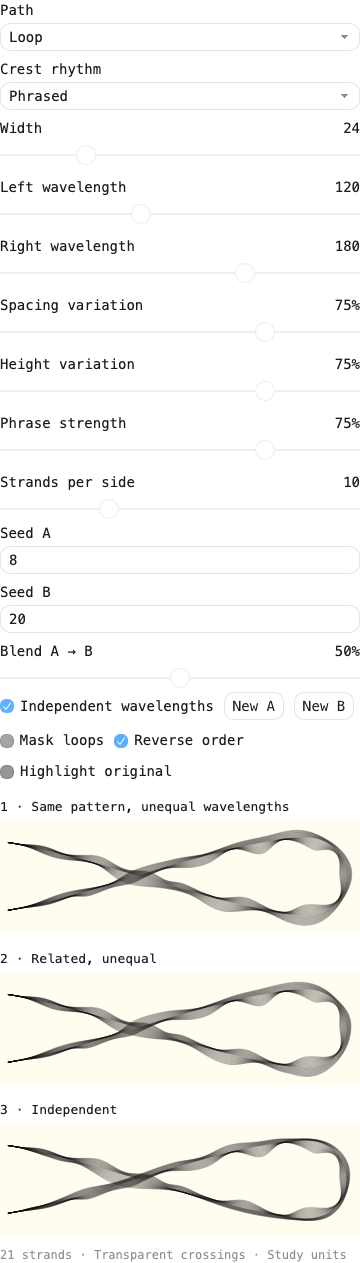
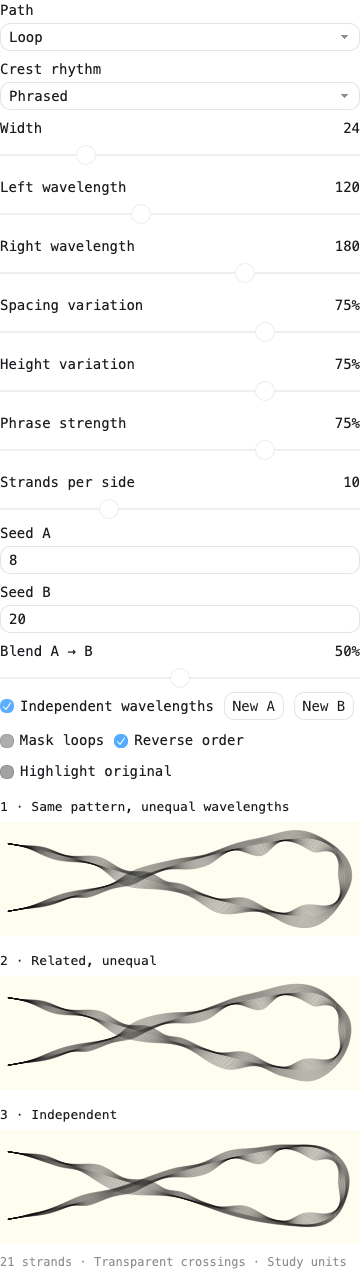
fix: normalize ribbon seed blend amplitude

diff --git a/docs/reviews/open-path-ribbon-2026-09-08/geometry.js b/docs/reviews/open-path-ribbon-2026-09-08/geometry.js
@@ -342,17 +342,31 @@
     const [leftProfile,rightProfile]=aProfiles.map((a,i)=>
       blend>0&&blend<1 ? s=>mix(a(s),bProfiles[i](s),blend) : a);
 
-    function outerWidths(profile) {
-      return spine.map((p, i) => {
+    function outerWidths(profile, sideIndex) {
+      const widths = spine.map((p, i) => {
         if (i === 0 || i === spine.length - 1) return 0;
         const base = profile(sampled.ss[i]);
         const requested = opts.width * base * taperAt(sampled.ss[i], sampled.total, opts.taper);
         return requested;
       });
+      if(blend>0&&blend<1&&opts.seed!==seedB) {
+        let peakA=0,peakB=0,peakMixed=0;
+        for(let i=1;i<spine.length-1;i++) {
+          const s=sampled.ss[i], envelope=opts.width*taperAt(s,sampled.total,opts.taper);
+          peakA=Math.max(peakA,aProfiles[sideIndex](s)*envelope);
+          peakB=Math.max(peakB,bProfiles[sideIndex](s)*envelope);
+          peakMixed=Math.max(peakMixed,widths[i]);
+        }
+        // Misaligned peaks otherwise cancel during a profile crossfade. One
+        // gain per side preserves the local rhythm and strand spacing.
+        const gain=peakMixed>1e-12 ? mix(peakA,peakB,blend)/peakMixed : 1;
+        return widths.map(w=>w*gain);
+      }
+      return widths;
     }
 
-    const leftWidths = outerWidths(leftProfile);
-    const rightWidths = outerWidths(rightProfile);
+    const leftWidths = outerWidths(leftProfile,0);
+    const rightWidths = outerWidths(rightProfile,1);
     function side(sign, widths, level) {
       const nodes=spine.map((p, i) => {
         if (i === 0) return {p:source[0].slice(),s:sampled.ss[i]};

diff --git a/docs/reviews/open-path-ribbon-2026-09-08/CREST-STATUS.md b/docs/reviews/open-path-ribbon-2026-09-08/CREST-STATUS.md
@@ -122,3 +122,19 @@ seeds 7/19/43 at identical 75% settings. S01–03 are before, S04–06 after; se
 contrasts while S06 remains more even, retaining variety across the population.
 The crest, seed-blend, smoothing and browser checks passed. Ready for Ian to check;
 no installed-app or paper validation.
+
+## Normalize seed blend amplitude
+
+Ian identified a loss of amplitude around the A/B midpoint. Intermediate blends
+now receive one uniform gain per side, targeting the linear interpolation of
+that side's A/B peak widths (measured after endpoint taper and before corner
+joins). Thus a midpoint retains the mean endpoint peak amplitude even when crests
+are misaligned. Local quiet/prominent proportions are retained; seed endpoints
+and same-seed blends remain exact. This supersedes the unnormalized crossfade
+above. It normalizes peak width, not area or perceived ink density.
+
+The seed-blend regression first reproduced the peak loss, then passed normalized
+amplitude and uniformly scaled profile checks at .001, .499, .5, .501 and .999.
+Existing side independence, exact A/B, same-seed, masking and six-fixture checks
+pass, as do the crest and browser suites. Lead inspected the 50% preview; ready
+for Ian to check.
